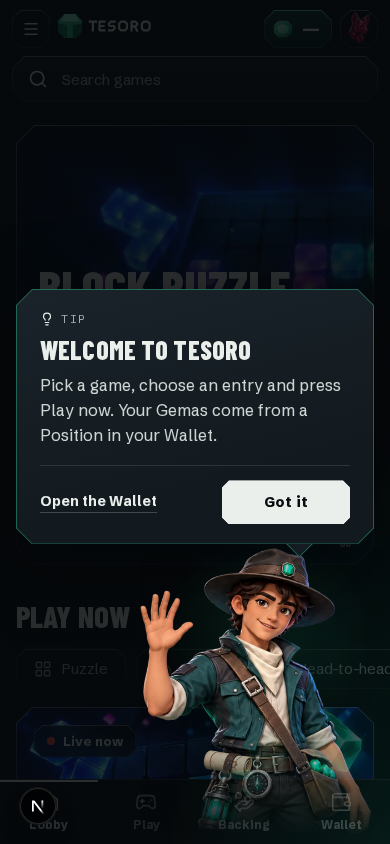
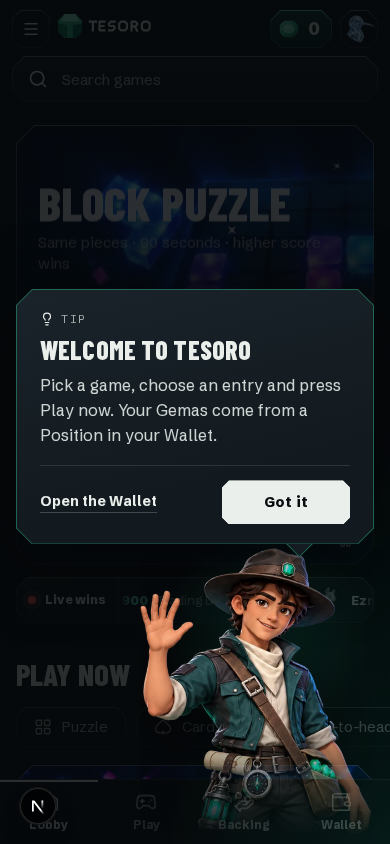
fix(guide): page stays usable under the tip; phone entry chips fit (UX-01, UX-06)

diff --git a/app/src/components/guide/Guide.tsx b/app/src/components/guide/Guide.tsx
@@ -102,7 +102,8 @@ export function GuideProvider({ children }: { children: ReactNode }) {
 /**
  * The Guide: the first time a tip applies, the page darkens and the character steps in from the
  * bottom right with the tip in a speech bubble. It stays until "Got it" (or the tip's link, or
- * Escape) and is then remembered as dismissed for good. Focus sits on "Got it" while it shows.
+ * Escape) and is then remembered as dismissed for good. The page stays usable underneath: only
+ * the bubble takes clicks and focus is never moved.
  */
 export function GuideOverlay() {
   const v = useContext(ViewCtx);
@@ -113,27 +114,23 @@ export function GuideOverlay() {
 /** Waits for the pose to load (at most `LOAD_WAIT_MS`) so the entrance plays with the art in it. */
 function GuideScene({ tip, dismiss }: { tip: GuideTip; dismiss: () => void }) {
   const [ready, setReady] = useState(false);
-  const gotIt = useRef<HTMLButtonElement>(null);
   useEffect(() => {
     const t = setTimeout(() => setReady(true), LOAD_WAIT_MS);
     return () => clearTimeout(t);
   }, []);
   useEffect(() => {
     if (!ready) return;
-    const back = document.activeElement instanceof HTMLElement ? document.activeElement : null;
-    gotIt.current?.focus({ preventScroll: true });
     const onKey = (e: KeyboardEvent) => {
       if (e.key === "Escape") dismiss();
     };
     window.addEventListener("keydown", onKey);
     return () => {
       window.removeEventListener("keydown", onKey);
-      if (back?.isConnected) back.focus({ preventScroll: true });
     };
   }, [ready, dismiss]);
   const pose = art.guide[tip.pose];
   return (
-    <div className={`guide${ready ? " in" : ""}`} role="dialog" aria-modal="true" aria-labelledby="guide-title" aria-describedby="guide-text">
+    <div className={`guide${ready ? " in" : ""}`} role="dialog" aria-labelledby="guide-title" aria-describedby="guide-text">
       <div className="guide-figure">
         <Image className={`guide-bust${pose.faces === "right" ? " flip" : ""}`} src={pose.src} alt="" width={pose.w} height={pose.h} priority onLoad={() => setReady(true)} />
         <div className="guide-say">
@@ -149,7 +146,7 @@ function GuideScene({ tip, dismiss }: { tip: GuideTip; dismiss: () => void }) {
                   {tip.link.label}
                 </Link>
               )}
-              <button ref={gotIt} type="button" className="cut cut-btn btn guide-ok" onClick={dismiss}>
+              <button type="button" className="cut cut-btn btn guide-ok" onClick={dismiss}>
                 Got it
               </button>
             </div>

diff --git a/app/src/components/guide/guide.css b/app/src/components/guide/guide.css
@@ -1,6 +1,6 @@
 /* ——— Guide: a first-visit overlay. The page darkens, the character (torso up, fading out at the
    bottom) rises in at the bottom right, then the speech bubble pops in beside it. Stays until "Got it". */
-.guide { position: fixed; inset: 0; z-index: 55; visibility: hidden; display: flex; align-items: flex-end; justify-content: flex-end; overflow: hidden; background: radial-gradient(90% 80% at 100% 100%, rgba(3, 32, 26, 0.6), rgba(5, 8, 10, 0.84) 62%); }
+.guide { position: fixed; inset: 0; z-index: 55; visibility: hidden; display: flex; align-items: flex-end; justify-content: flex-end; overflow: hidden; pointer-events: none; background: radial-gradient(90% 80% at 100% 100%, rgba(3, 32, 26, 0.45), rgba(5, 8, 10, 0.4) 62%); }
 .guide.in { visibility: visible; animation: guide-dim 360ms ease-out both; }
 
 .guide-figure { position: relative; width: min(500px, 38vw); margin-right: clamp(8px, 4vw, 72px); }
@@ -10,7 +10,7 @@
 .guide.in .guide-bust { animation: guide-rise 700ms cubic-bezier(0.2, 1, 0.3, 1) 100ms both; }
 
 /* the bubble sits left of the figure at chest height; its tail points at the character */
-.guide-say { position: absolute; right: calc(100% - 24px); top: 16%; width: min(400px, calc(100vw - 32px)); filter: drop-shadow(0 16px 36px rgba(0, 0, 0, 0.55)); }
+.guide-say { pointer-events: auto; position: absolute; right: calc(100% - 24px); top: 16%; width: min(400px, calc(100vw - 32px)); filter: drop-shadow(0 16px 36px rgba(0, 0, 0, 0.55)); }
 .guide-say::after { content: ""; position: absolute; right: -9px; top: 46px; width: 20px; height: 20px; rotate: 45deg; background: #141c21; border-top: 1px solid rgba(45, 190, 140, 0.45); border-right: 1px solid rgba(45, 190, 140, 0.45); }
 .guide.in .guide-say { transform-origin: 100% 56px; animation: guide-pop 420ms cubic-bezier(0.2, 1.3, 0.4, 1) 560ms both; }
 .guide-bubble { --c: 16px; --edge: rgba(45, 190, 140, 0.45); position: relative; z-index: 1; display: grid; gap: 10px; padding: 22px 24px 20px; background: linear-gradient(165deg, #1a232a, #121a1f 70%); }

diff --git a/app/src/components/ui/ui.css b/app/src/components/ui/ui.css
@@ -184,7 +184,7 @@ a.row:hover, button.row:hover { background: var(--raised-2); }
 .src-foot { display: flex; justify-content: space-between; font-size: 11.5px; color: var(--fg-2); font-variant-numeric: tabular-nums; }
 
 /* ——— Entry picker ——— */
-.entries { display: grid; grid-template-columns: repeat(3, 1fr); gap: 8px; border: 0; padding: 0; margin: 0; min-width: 0; }
+.entries { display: grid; grid-template-columns: repeat(3, minmax(0, 1fr)); gap: 8px; border: 0; padding: 0; margin: 0; min-width: 0; }
 .entry { position: relative; display: block; }
 .entry input { position: absolute; inset: 0; opacity: 0; margin: 0; cursor: pointer; z-index: 3; }
 .entry span {
@@ -200,7 +200,7 @@ a.row:hover, button.row:hover { background: var(--raised-2); }
 .entry input:disabled { cursor: not-allowed; }
 
 /* ——— Asset picker (Trading Duel): neutral, the chosen asset is pale ——— */
-.assets { display: grid; grid-template-columns: repeat(3, 1fr); gap: 8px; border: 0; padding: 0; margin: 0; min-width: 0; }
+.assets { display: grid; grid-template-columns: repeat(3, minmax(0, 1fr)); gap: 8px; border: 0; padding: 0; margin: 0; min-width: 0; }
 .asset { position: relative; display: block; }
 .asset input { position: absolute; inset: 0; opacity: 0; margin: 0; cursor: pointer; z-index: 3; }
 .asset span { display: grid; justify-items: center; align-content: center; gap: 2px; padding: 8px 0; min-height: 58px; background: var(--shell); --edge: var(--edge-2); transition: background-color 0.15s ease; }
@@ -390,4 +390,10 @@ dialog.sheet[open]::backdrop { animation: fade-in 0.24s ease-out; }
     animation: reveal linear both; animation-timeline: view(); animation-range: entry 0% entry 30%;
   }
   @keyframes reveal { from { opacity: 0; translate: 0 32px; } }
+}
+
+/* narrow phones: the three entry chips share the row, mark and figure both fit */
+@media (max-width: 420px) {
+  .entries { gap: 6px; }
+  .entry span { gap: 4px; font-size: 16px; }
 }

diff --git a/app/src/app/(app)/play/[game]/GamePage.tsx b/app/src/app/(app)/play/[game]/GamePage.tsx
@@ -78,7 +78,7 @@ export function GamePage({ game }: { game: GameId }) {
               Play now
             </Button>
             <Button size="lg" onClick={() => auth.gate("Challenge a friend", () => router.push(query("challenge")))}>
-              Challenge a friend <Link2 aria-hidden="true" />
+              Challenge<span className="gp-friend"> a friend</span> <Link2 aria-hidden="true" />
             </Button>
             <Button size="lg" href={practiceHref(game, asset)}>
               Practice <Clock aria-hidden="true" />

diff --git a/app/src/app/(app)/play/[game]/game.css b/app/src/app/(app)/play/[game]/game.css
@@ -74,3 +74,9 @@
 @media (min-width: 640px) { .gp-cta .btn.money { min-width: 180px; } }
 .gp-hero .assets { gap: 12px; width: min(100%, 470px); }
 .gp-hero .asset span { min-height: 66px; --c: 11px; }
+
+@media (max-width: 420px) {
+  .gp-friend { display: none; }
+  .gp-hero .entries { gap: 8px; }
+  .gp-hero .entry span { font-size: 19px; }
+}
